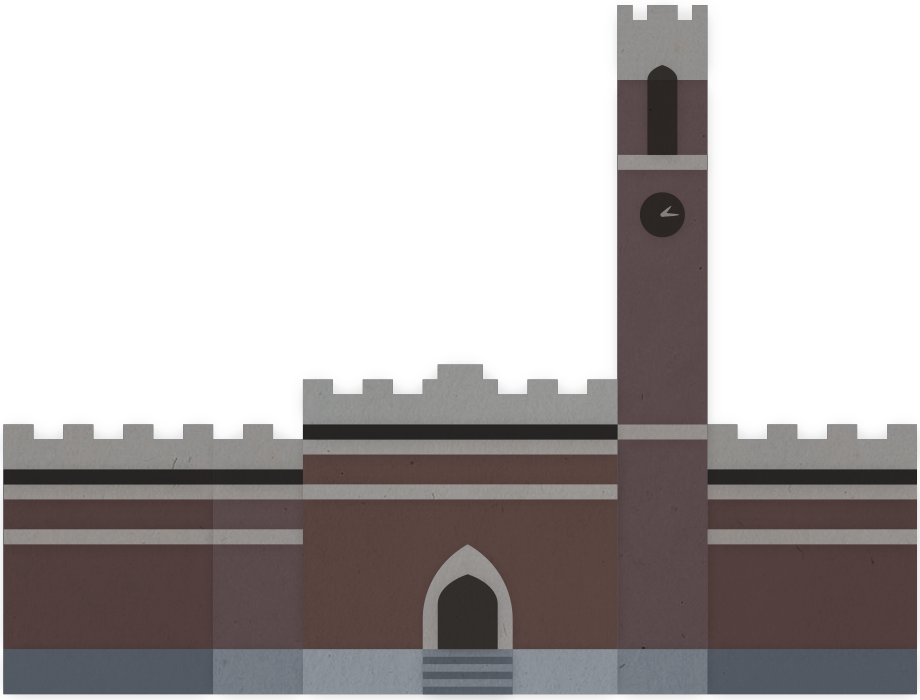
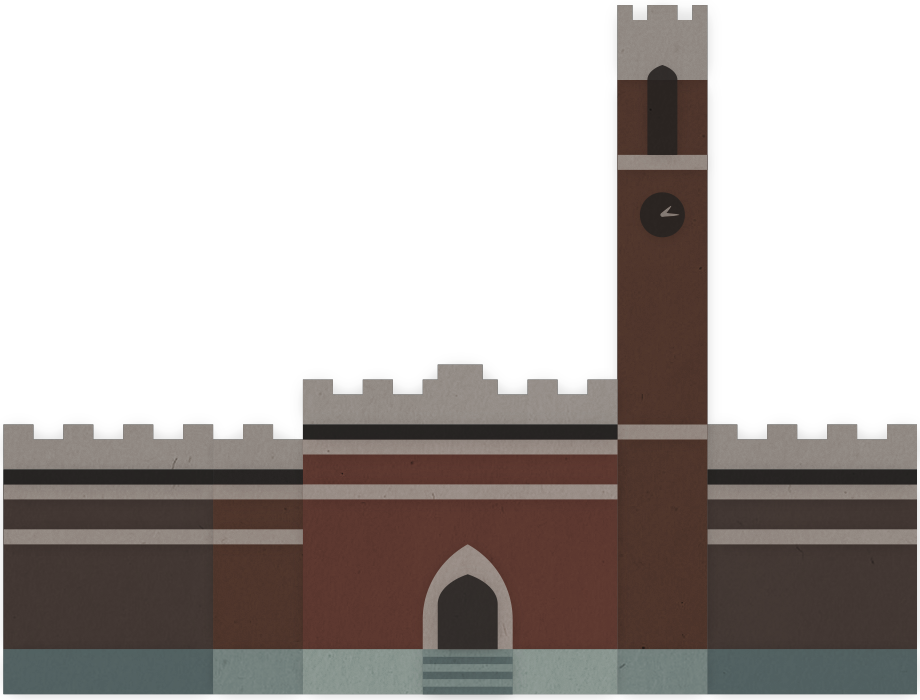
new images, color change

Changed region(s): [[0.6696, 0.09, 0.7913, 0.93], [0.213, 0.69, 0.3348, 0.93]]

diff --git a/public/index.html b/public/index.html
@@ -30,12 +30,12 @@
       <div id="container">
         <div id="sky">
           <img id="ground" src="img/bg/ground.png"/>
-          <img id="kirkland" src="img/bg/Kirkland.png"/>
+          <img id="kirkland" src="img/bg/kirkland.png"/>
           <img id="trees" src="img/bg/trees.png"/>
           <img id="lamp-1" src="img/bg/lamppost.png"/>
           <img id="lamp-2" src="img/bg/lamppost.png"/>
-          <img id="cloud-1" src="img/bg/Cloud1.png"/>
-          <img id="cloud-2" src="img/bg/Cloud2.png"/>
+          <img id="cloud-1" src="img/bg/cloud1.png"/>
+          <img id="cloud-2" src="img/bg/cloud2.png"/>
         </div>
         <img class="logo" src="img/logo.svg" />
         <div id="txt" class="text-center">

diff --git a/public/css/style.less b/public/css/style.less
@@ -1,4 +1,4 @@
-@orange: rgb(234, 168, 57);
+@orange: rgb(213, 124, 32);
 @grey: rgb(33, 33, 35);
 
 html {
